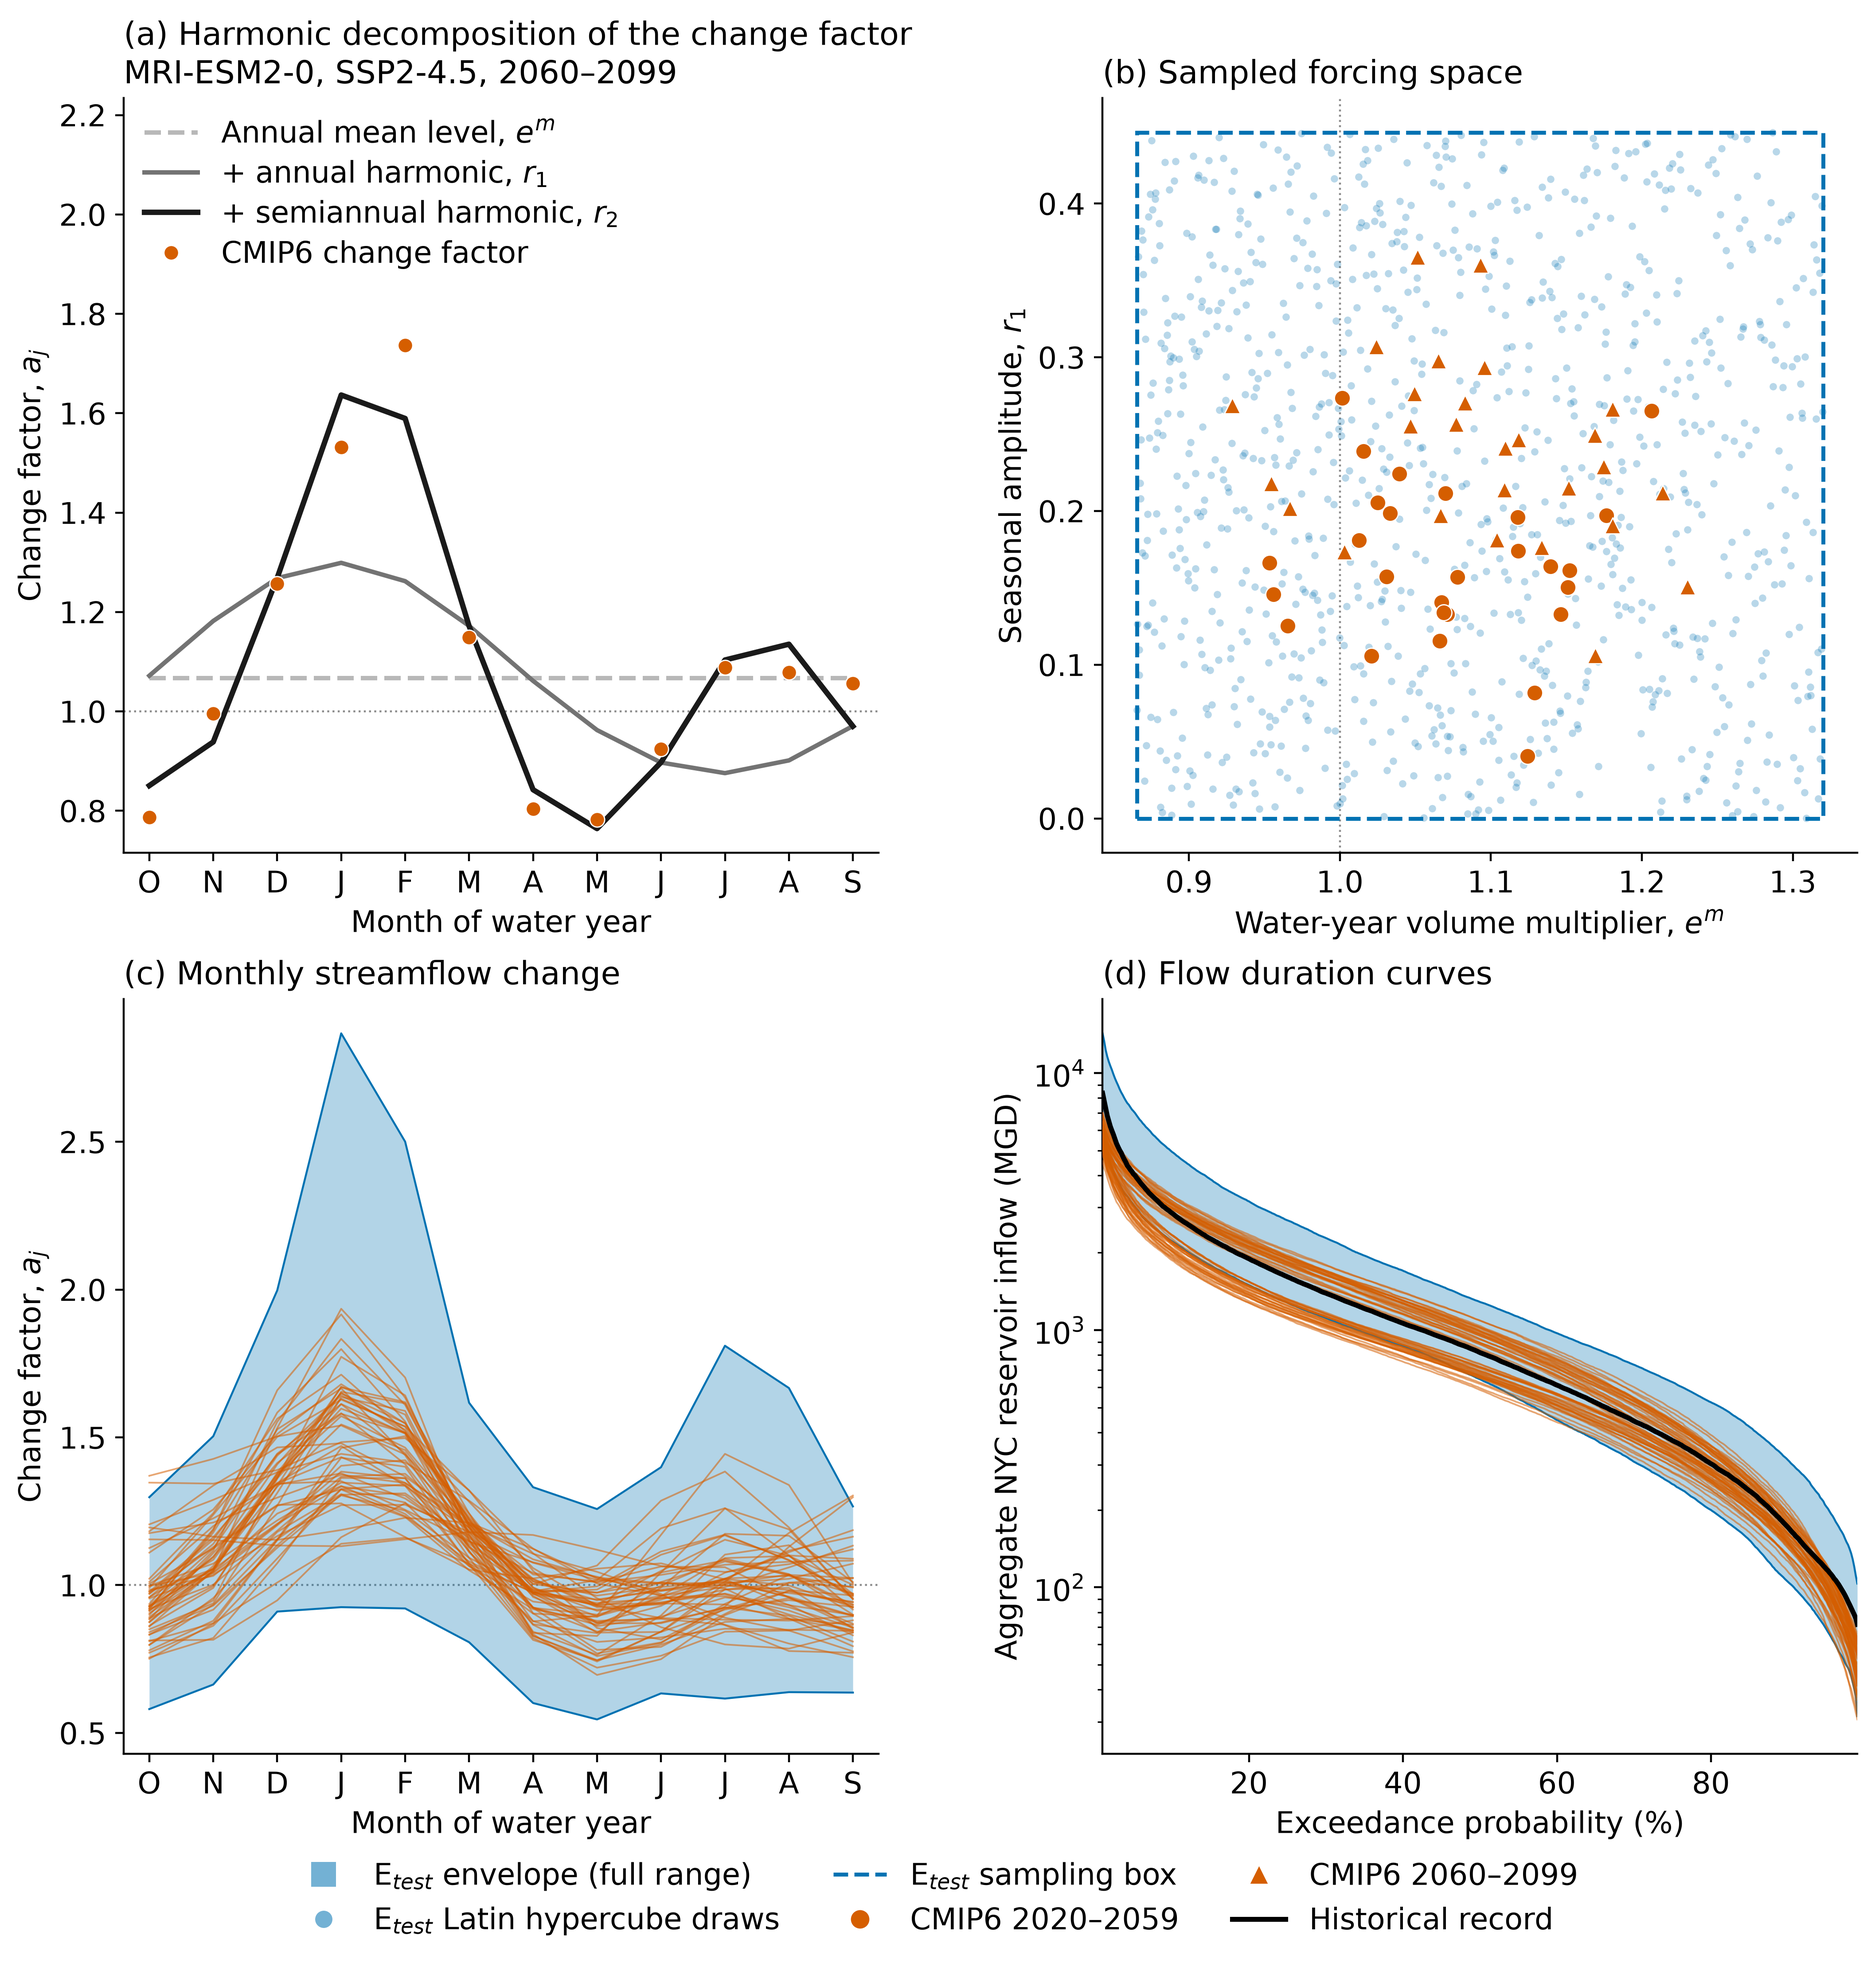
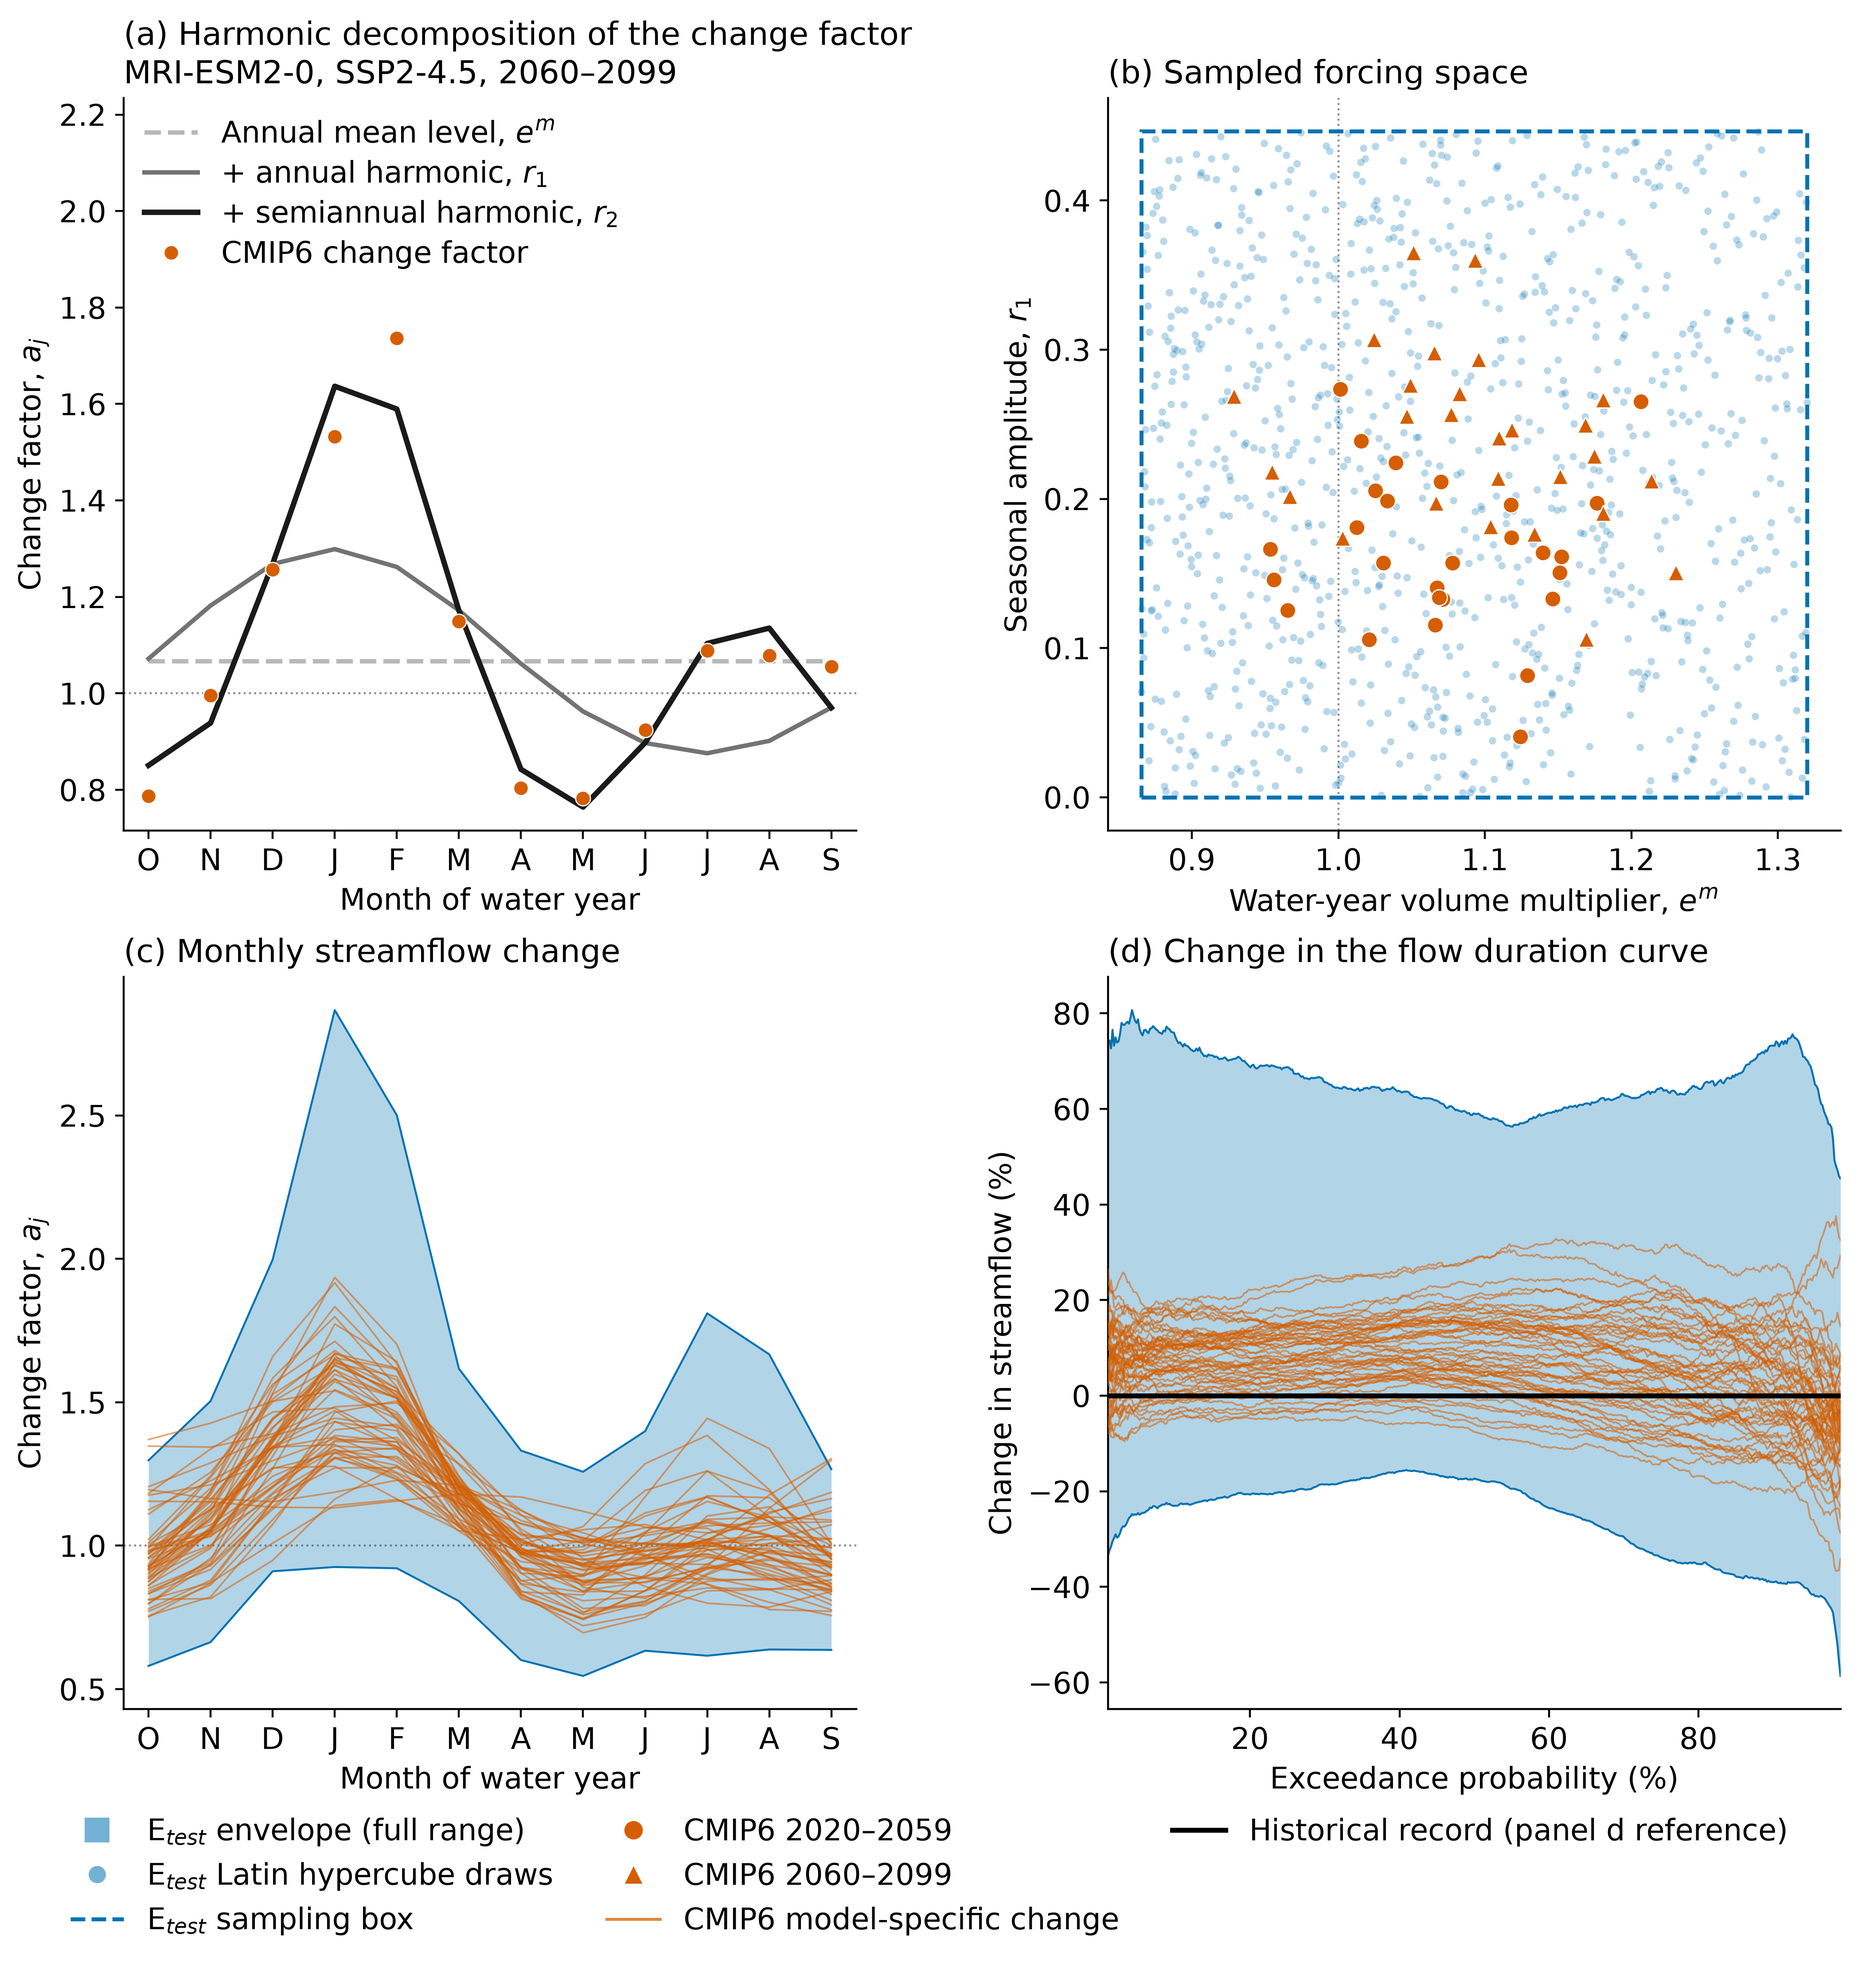
Cleanup old docs and move methods diagram

diff --git a/figures/manuscript/figure_sequence.md b/figures/manuscript/figure_sequence.md
@@ -1,0 +1,9 @@
+## Manuscript figure sequence
+
+The following is the planned figure sequence for the academic manuscript. The following is _not_ written in stone and is subject to change. 
+
+Figure 1: Basin map (made outside this repo).
+
+Figure 2: Graphical methods diagram (current version: docs/manuscript/methods_diagram/sketch_v5.png)
+
+Figure 3: Visualization of CMIP6-based flow change uncertainty and sampling (current version: figures/manuscript/fig03_forcing_space.png)
